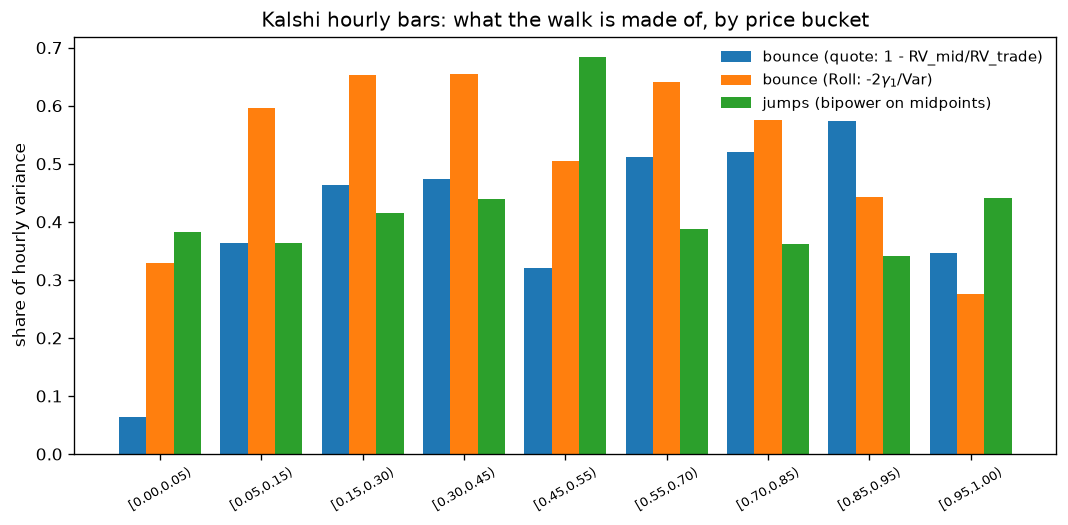
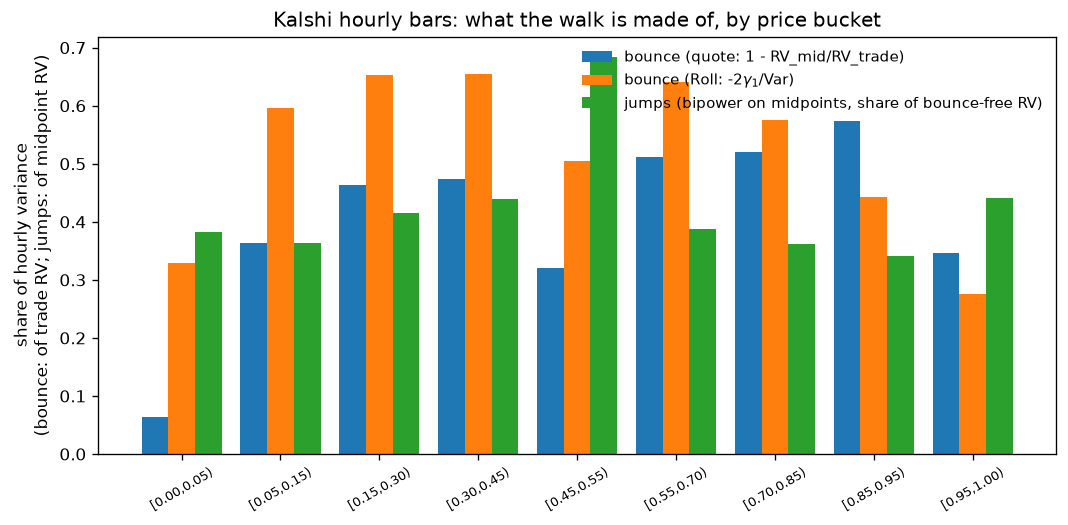
Redesign README figures: bucket-ratio budget test with bootstrap CIs, error bars and level matching on state dependence, median+IQR strike-strip bands, honest denominators on intraday

diff --git a/analysis/readme_figures.py b/analysis/readme_figures.py
@@ -25,22 +25,59 @@ FIG.mkdir(exist_ok=True)
 VENUES = {"polymarket": None, "kalshi": None}  # match vol_check CLI defaults
 
 
+def _bucket_ratios(a, rng, n_boot=2000):
+    """Per-p0-bucket realised/implied ratio of sums with bootstrap CI."""
+    b = vc._bucket(a["p0"].to_numpy())
+    out = []
+    for i in range(len(vc.P_BUCKETS) - 1):
+        g = a[b == i]
+        if len(g) < 10:
+            out.append((i, np.nan, np.nan, np.nan, len(g)))
+            continue
+        rv, iv = g["rv"].to_numpy(), g["iv"].to_numpy()
+        ratio = rv.sum() / iv.sum()
+        idx = rng.integers(0, len(g), (n_boot, len(g)))
+        boot = rv[idx].sum(axis=1) / iv[idx].sum(axis=1)
+        lo, hi = np.quantile(boot, [0.025, 0.975])
+        out.append((i, ratio, lo, hi, len(g)))
+    return out
+
+
 def fig_budget(data: dict) -> None:
-    """Realised vs implied lifetime variance: the martingale budget test."""
-    fig, axes = plt.subplots(1, 2, figsize=(11, 4.5), sharey=True)
-    for ax, (venue, (a, _)) in zip(axes, data.items()):
-        s = a.attrs["slope"]
-        ax.scatter(a["iv"], a["rv"], s=6, alpha=0.25, lw=0)
-        x = np.linspace(0, 0.25, 50)
-        ax.plot(x, x, "k--", lw=1, label="martingale budget (slope 1)")
-        ax.plot(x, s * x, "r-", lw=1.2, label=f"fit: slope {s:.2f}")
-        ax.set_xlim(0, 0.26)
-        ax.set_ylim(0, 1.0)
-        ax.set_xlabel(r"implied lifetime variance  $p_0(1-p_0)$")
-        ax.set_title(f"{venue} ({len(a)} resolved markets)")
-        ax.legend(frameon=False, fontsize=9)
-    axes[0].set_ylabel(r"realised lifetime variance  $\sum dp_t^2 + (F-p_T)^2$")
-    fig.suptitle("Test A: every market quotes its own implied variance", y=1.0)
+    """The martingale budget by starting price: realised / implied variance.
+
+    A ratio-of-sums per p0 bucket says *where* the excess movement lives;
+    a scatter of rv on iv with a fitted line hides it (iv is bounded by
+    1/4, the cloud is heteroskedastic, and the slope is one number).
+    Benchmarks: 1.0 (any martingale) and the same statistic on simulated
+    paths with 2c of additive bid-ask noise.
+    """
+    rng = np.random.default_rng(7)
+    sim = vc.test_a(vc.simulate(600, noise=0.02, seed=7))
+    fig, ax = plt.subplots(figsize=(9.5, 5))
+    series = [("polymarket", data["polymarket"][0], "C0", -0.15),
+              ("kalshi", data["kalshi"][0], "C1", 0.0),
+              ("sim: clean walk + 2c bounce", sim, "0.55", 0.15)]
+    labels = [vc._bucket_label(i) for i in range(len(vc.P_BUCKETS) - 1)]
+    for name, a, color, off in series:
+        rows = _bucket_ratios(a, rng)
+        x = np.array([r[0] for r in rows], float) + off
+        y = np.array([r[1] for r in rows])
+        lo = np.array([r[2] for r in rows])
+        hi = np.array([r[3] for r in rows])
+        ax.errorbar(x, y, yerr=[y - lo, hi - y], fmt="o", ms=5, lw=1.2,
+                    capsize=2.5, color=color, label=name)
+    ax.axhline(1.0, color="k", ls="--", lw=1,
+               label="martingale budget (exact for any dynamics)")
+    ax.set_yscale("log")
+    ax.set_xticks(range(len(labels)), labels, rotation=30, fontsize=8)
+    ax.set_xlabel("starting price bucket $p_0$")
+    ax.set_ylabel(r"realised / implied lifetime variance"
+                  "\n"
+                  r"$\sum dp_t^2 + (F-p_T)^2$  vs  $p_0(1-p_0)$")
+    ax.set_title("The budget test: how much more the walk moves than a "
+                 "martingale may (95% bootstrap CIs)")
+    ax.legend(frameon=False, fontsize=9)
     fig.tight_layout()
     fig.savefig(FIG / "budget.png", dpi=120, bbox_inches="tight")
     plt.close(fig)
@@ -59,10 +96,12 @@ def fig_state_dependence(data: dict) -> None:
         b["y"] = b["dp2"] / b["dt"] * b["tau"] ** pf["alpha"]
         b["bin"] = np.digitize(b["p"], np.linspace(0.05, 0.95, 19))
         cell = b.groupby("bin").agg(mp=("p", "mean"), my=("y", "mean"),
-                                    n=("y", "size"))
+                                    sd=("y", "std"), n=("y", "size"))
         cell = cell[cell["n"] >= 200]
-        ax.plot(cell["mp"], cell["my"], "o", ms=5, color="C0",
-                label=r"data: $E[dp^2/dt]\cdot\tau^{\hat\alpha}$")
+        sem = cell["sd"] / np.sqrt(cell["n"])
+        ax.errorbar(cell["mp"], cell["my"], yerr=1.96 * sem, fmt="o", ms=5,
+                    lw=1, capsize=2, color="C0",
+                    label=r"data: $E[dp^2/dt]\cdot\tau^{\hat\alpha}$ (95% CI)")
         z = norm.ppf(grid)
 
         def match(f):  # geometric-mean level match to the data cells
@@ -99,13 +138,53 @@ def fig_intraday() -> None:
     w = 0.27
     ax.bar(x - w, tab["bounce_quote"], w, label="bounce (quote: 1 - RV_mid/RV_trade)")
     ax.bar(x, tab["bounce_roll"], w, label="bounce (Roll: -2$\\gamma_1$/Var)")
-    ax.bar(x + w, tab["jump_share_mid"], w, label="jumps (bipower on midpoints)")
+    ax.bar(x + w, tab["jump_share_mid"], w,
+           label="jumps (bipower on midpoints, share of bounce-free RV)")
     ax.set_xticks(x, tab["bucket"], rotation=30, fontsize=8)
-    ax.set_ylabel("share of hourly variance")
+    ax.set_ylabel("share of hourly variance\n(bounce: of trade RV; jumps: of midpoint RV)")
     ax.set_title("Kalshi hourly bars: what the walk is made of, by price bucket")
     ax.legend(frameon=False, fontsize=9)
     fig.tight_layout()
     fig.savefig(FIG / "intraday.png", dpi=120, bbox_inches="tight")
+    plt.close(fig)
+
+
+def fig_strike_strip() -> None:
+    """Strike-strip IV vs time to resolution: median + IQR band per series.
+
+    Replaces per-event spaghetti: the cross-event median with an IQR band
+    is the readable statement of the IV term structure.
+    """
+    from analysis import strike_strip as ss
+    panel = ss.build_iv_panel(ss.load_strips())
+    kind = {s: ss.SERIES[s][0] for s in ss.SERIES}
+    panel["iv"] = np.where(panel["series"].map(kind) == "prop",
+                           panel["iv_prop"], panel["iv_norm"])
+    show = [("KXINXY", "S&P 500 end-of-year", "annualised IV (prop)"),
+            ("KXWTIW", "WTI weekly close", "annualised IV (prop)"),
+            ("KXCPIYOY", "CPI YoY %", "normal vol (%-pts / sqrt-yr)")]
+    fig, axes = plt.subplots(1, 3, figsize=(13, 4.2))
+    for ax, (s, title, ylab) in zip(axes, show):
+        sub = panel[panel["series"] == s].copy()
+        edges = np.quantile(sub["tau_days"], np.linspace(0, 1, 13))
+        sub["bin"] = np.searchsorted(np.unique(edges), sub["tau_days"],
+                                     side="right")
+        g = sub.groupby("bin")["iv"].agg(med="median",
+                                         q25=lambda v: v.quantile(0.25),
+                                         q75=lambda v: v.quantile(0.75))
+        t = sub.groupby("bin")["tau_days"].median()
+        ax.plot(t, g["med"], "o-", ms=4, lw=1.3, color="C0", label="median")
+        ax.fill_between(t, g["q25"], g["q75"], alpha=0.25, color="C0",
+                        label="IQR across event-days")
+        ax.set_title(f"{title} ({sub['event'].nunique()} events, "
+                     f"{len(sub)} days)", fontsize=10)
+        ax.set_xlabel("days to resolution")
+        ax.set_ylabel(ylab)
+        ax.invert_xaxis()
+        ax.legend(frameon=False, fontsize=8)
+    fig.suptitle("Forward-looking implied vol from bracketed strips", y=1.0)
+    fig.tight_layout()
+    fig.savefig(FIG / "strike_strip_iv.png", dpi=120, bbox_inches="tight")
     plt.close(fig)
 
 
@@ -123,6 +202,8 @@ def main() -> None:
     print("state_dependence.png")
     fig_intraday()
     print("intraday.png")
+    fig_strike_strip()
+    print("strike_strip_iv.png")
 
 
 if __name__ == "__main__":

diff --git a/README.md b/README.md
@@ -44,9 +44,10 @@ E[ sum_t dp_t^2 + (final - p_last)^2 ] = p0 (1 - p0)
 This is model-free: it holds under stochastic vol, jumps, staleness, any
 dynamics at all. `p(1-p)` is the market's own model-free implied integrated
 variance, the exact analog of a variance-swap strike, quoted by the price
-itself. Regressing realised lifetime variance on it is a realised-vs-implied
-comparison, and the slope minus one is a variance risk premium for prediction
-markets.
+itself. Comparing realised lifetime variance to it is a realised-vs-implied
+comparison; the figure plots the ratio of sums per starting-price bucket
+(a pooled slope compresses the same information into one number and hides
+where the excess lives).
 
 ![budget](figures/budget.png)
 
